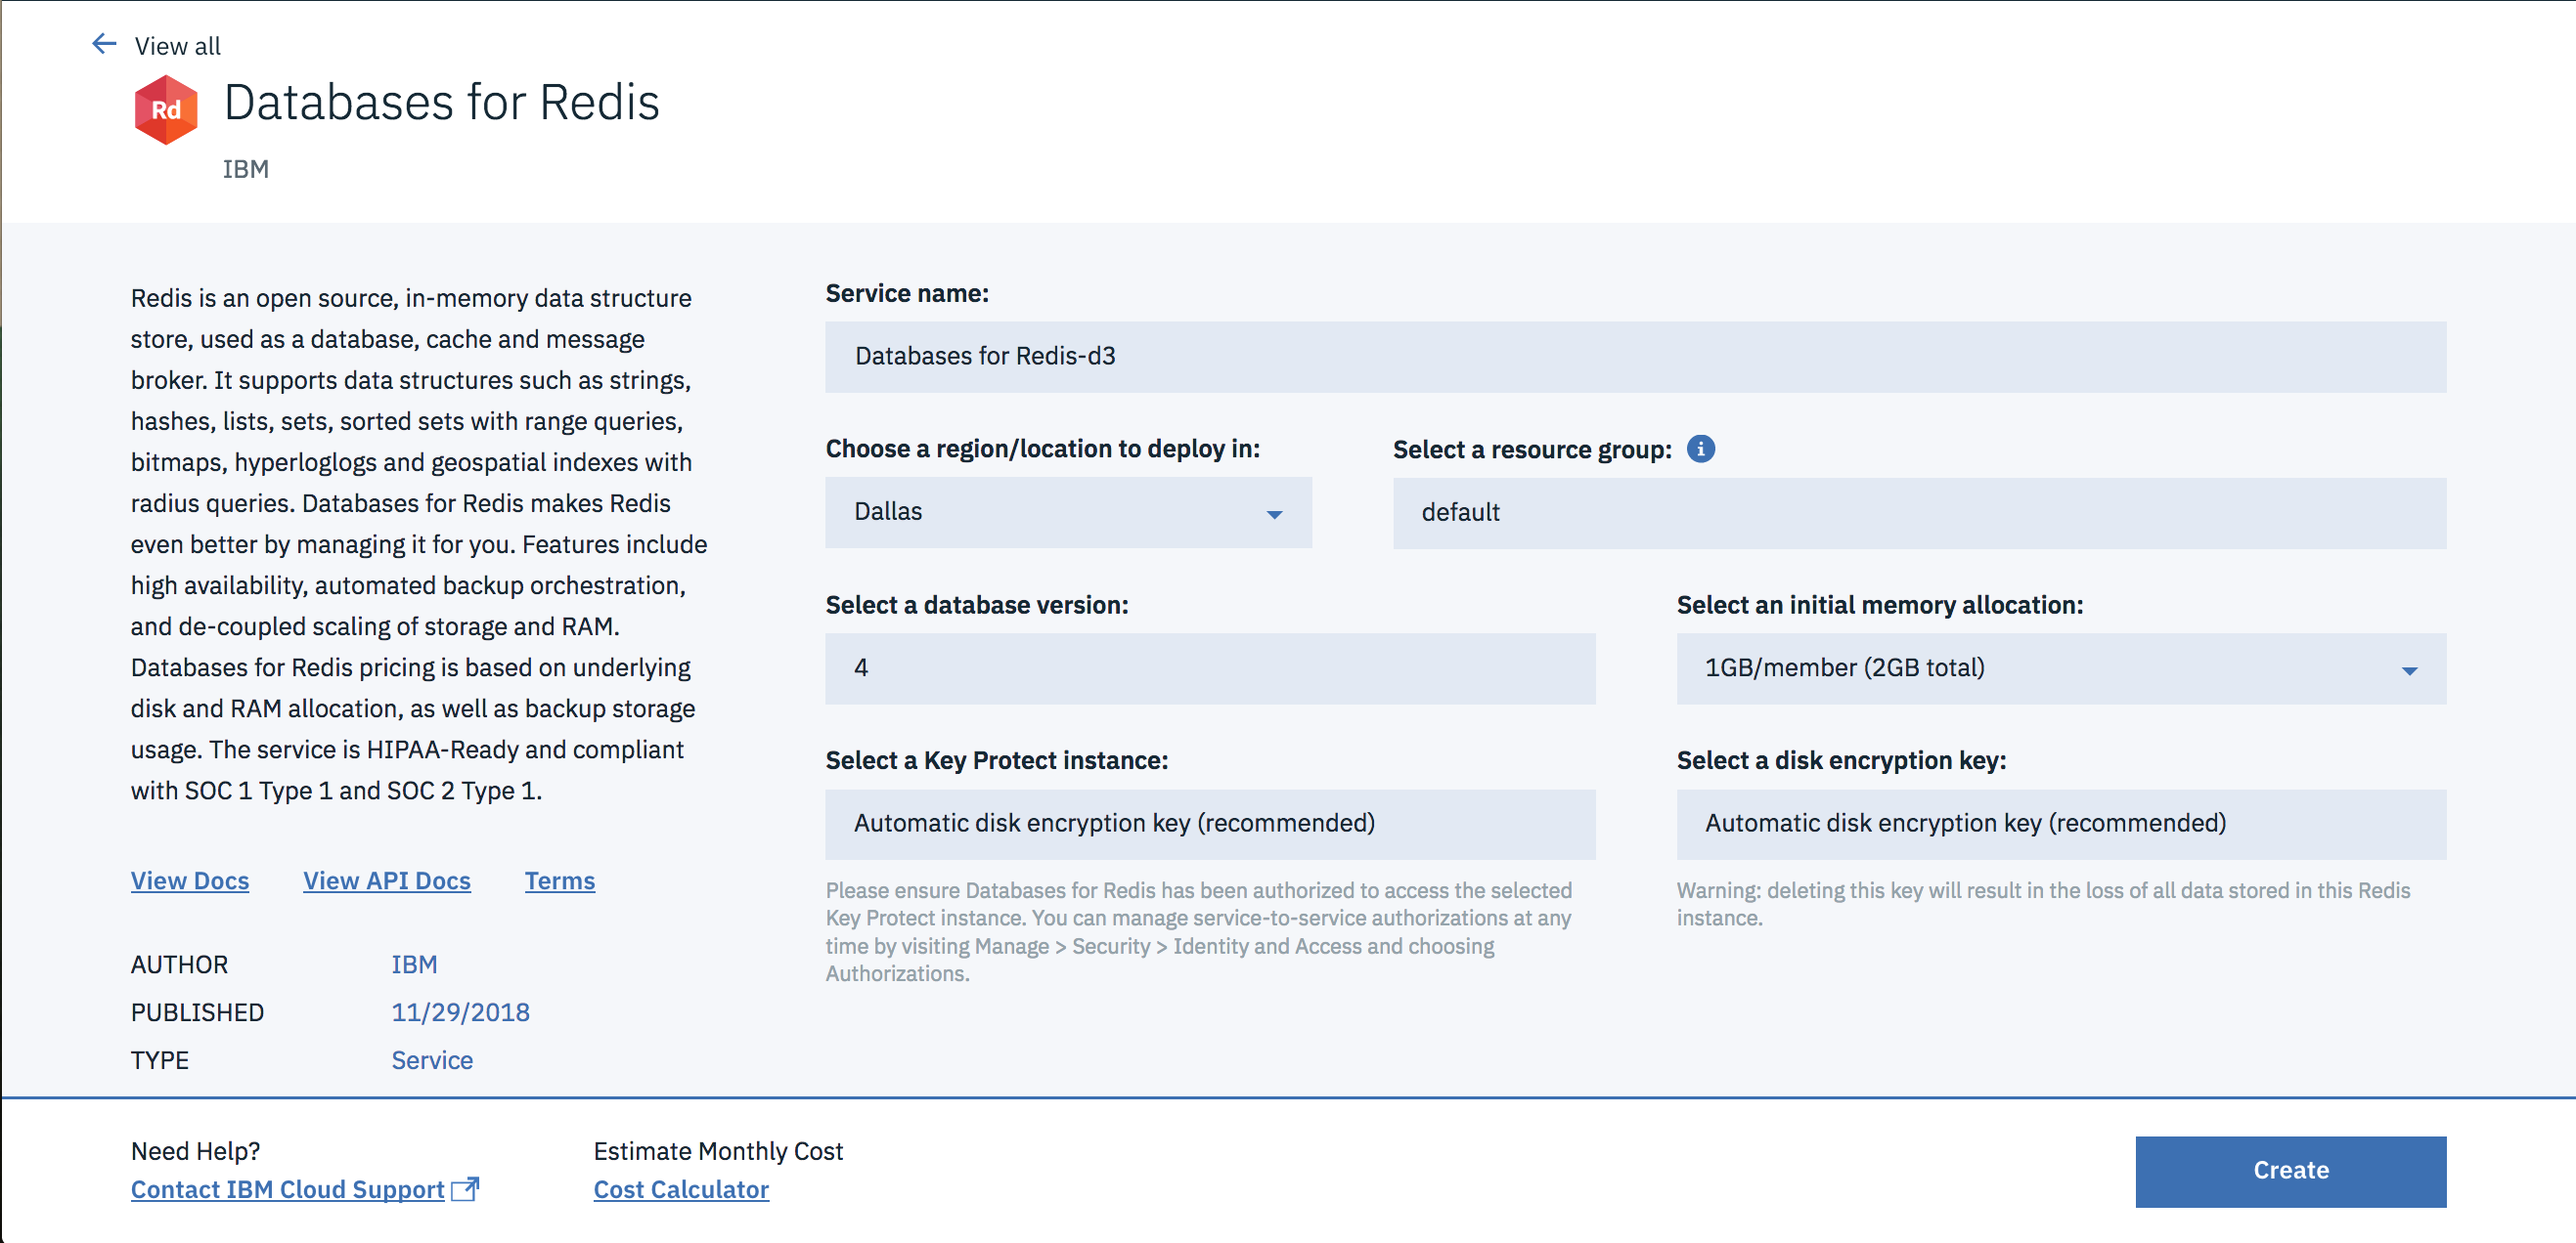
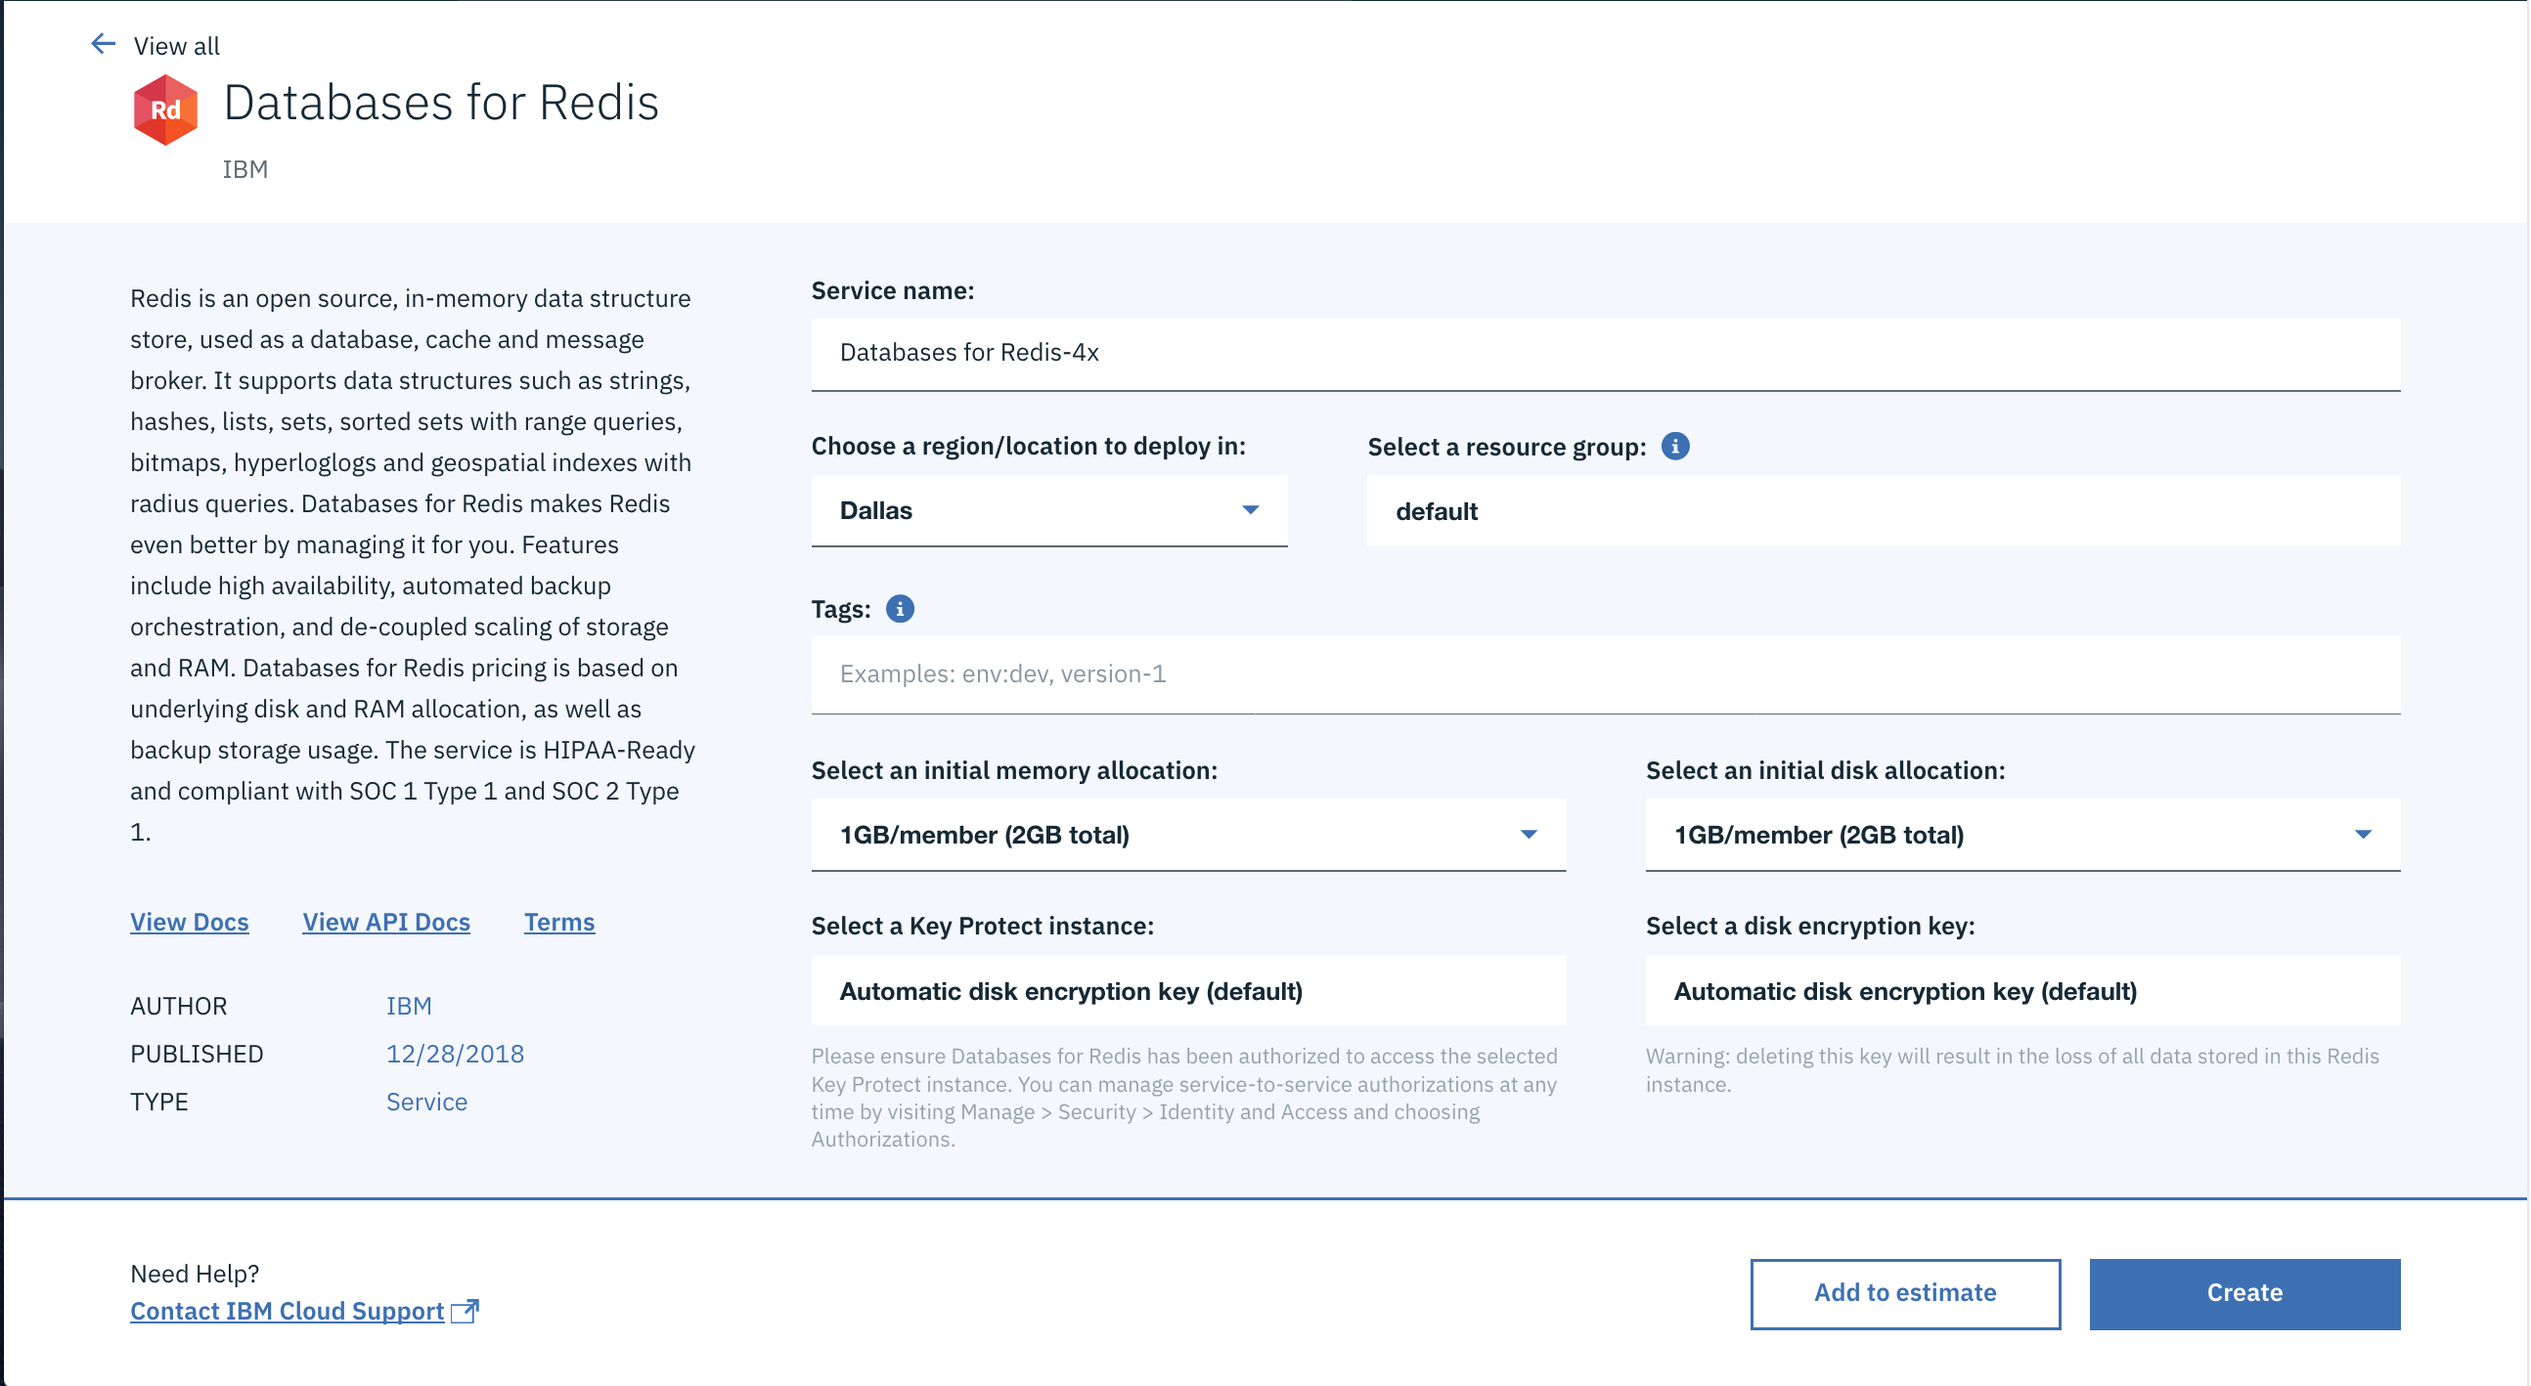
Feature provisioning terraform (#21)
* adding disk parameter

* updating provisioning screenshot

* adding api and terraform sections

diff --git a/howto-provisioning.md b/howto-provisioning.md
@@ -1,8 +1,8 @@
 ---
 
 copyright:
-  years: 2018
-lastupdated: "2018-12-05"
+  years: 2018, 2019
+lastupdated: "2019-01-03"
 ---
 
 {:shortdesc: .shortdesc}
@@ -33,14 +33,11 @@ Users can optionally set:
 
 1. **The resource group** - If you are organizing your services into [resource groups](/docs/resources/bestpractice_rgs.html#bp_resourcegroups), you can specify the resource group in this field. Otherwise, you can leave it at default.
 2. **Disk encryption** - Optionally, a Key Protect instance can be selected if the user has Key Protect configured. If it is configured, once the service is selected, a disk encryption key can be selected from the Key Protect service. By default, Key Protect is not used and the deployment automatically creates and manages its own disk encryption key. 
-
-Users cannot set:
-
-1. **The service plan** - A service can have a number of plan types with different pricing, resources or other features, each with their own service plan ID. {{site.data.keyword.databases-for-redis}} currently has one service plan, standard. 
+3. **Initial resource allocation** - Specify initial memory and disk sizes for your databases. The minimum sizes of memory and disk are selected by default.
 
 Once you select the appropriate settings, click **Create** to start the provisioning process off.
 
-The database takes some time to deploy. The user is navigated back to the {{site.data.keyword.cloud_notm}} Dashboard.
+The database takes some time to deploy, and you are navigated back to your {{site.data.keyword.cloud_notm}} Resource List.
 
 ## Using the Command Line
 
@@ -72,12 +69,7 @@ This command reports the current state of the service instance.
 
 ### Additional parameters
 
-The `service-instance-create` command supports a `-p` flag, which allows addition parameters to be passed to the provisioning process. The parameters are in JSON format. Some parameters values are CRNs (Cloud Resource Name), which uniquely identifies a resource in the cloud. All parameter names and values are passed as strings.
-
-* `backup_id`- A CRN of a backup resource to restore from. The backup must have been created by a database deployment with the same service ID. The backup is loaded after provisioning and the new deployment starts up that uses that data. A backup CRN is in the format `crn:v1:<...>:backup:<uuid>`. If omitted, the database is provisioned empty. This parameter cannot be set with a **version** parameter
-* `version` - The version of the database to be provisioned. If omitted, the database is created with the most recent major and minor version. This parameter cannot be set with a **backup_id** parameter.
-* `key_protect_key` - A CRN that references a Key Protect key, which is then used for disk encryption.
-* `members_memory_allocation_mb` -  Total amount of memory to be shared between the database members within the database. For example, if the value is "4096" then the two database members get 4 GB of RAM between them, giving 2 GB of RAM per member. If omitted, the default value is used; "2048".
+The `service-instance-create` command supports a `-p` flag, which allows [additional parameters](#list-of-additional-parameters) to be passed to the provisioning process. The parameters are in JSON format. Some parameters values are CRNs (Cloud Resource Name), which uniquely identifies a resource in the cloud. All parameter names and values are passed as strings.
 
 For example, if a database is being provisioned from a particular backup and the new database deployment needs two members, each with 2 GB, then the command looks like:
 
@@ -89,3 +81,62 @@ ibmcloud resource service-instance-create example-redis databases-for-redis stan
 }'
 ```
 
+## Provisioning through the Resource Controller API
+
+You can provision new deployments by using the Resource Controller API. However, in order to use the Resource Controller API, you need some additional preparation.
+
+1. [Obtain an IAM token from your API token](https://{DomainName}/apidocs/resource-controller#authentication).
+2. You need to know the ID of the resource group that you would like to deploy to. This information is available through the [{{site.data.keyword.cloud_notm}} CLI](https://{DomainName}/docs/cli/reference/ibmcloud/cli_resource_group.html#ibmcloud_resource_groups). You can find a list of resource groups with `ibmcloud resource groups` and the ID of a resource group with `ibmcloud resource group`. 
+3. You need to know the region that you would like to deploy to.
+
+Once you have all the information, the create request is a `POST` to the `https://resource-controller.bluemix.net/v2/resource_instances` endpoint.
+
+```
+curl -X POST \
+  https://resource-controller.bluemix.net/v2/resource_instances \
+  -H 'Authorization: Bearer <>' \
+  -H 'Content-Type: application/json' \
+    -d '{
+    "name": "my-instance",
+    "target": "bluemix-us-south",
+    "resource_group": "5g9f447903254bb58972a2f3f5a4c711",
+    "resource_plan_id": "databases-for-redis-standard"
+  }'
+```
+The parameters `name`, `target`, `resource_group`, and `resource_plan_id` are all required. If needed, you can send [additional parameters](#list-of-additional-parameters) in the request body.
+
+More information on the Resource Controller API is found in its [API Reference](https://{DomainName}/apidocs/resource-controller#create-provision-a-new-resource-instance).
+
+## Provisioning with Terraform
+
+If you use [Terraform](https://www.terraform.io/) to manage your infrastructure, the [{{site.data.keyword.cloud_notm}} provider for Terraform](https://ibm-cloud.github.io/tf-ibm-docs/) supports provisioning {{site.data.keyword.databases-for-redis}}. 
+
+Example configuration:
+
+```
+data "ibm_resource_group" "group" {
+  name = "default"
+}
+resource "ibm_resource_instance" "resource_instance" {
+  name              = "example-terraform-redis"
+  location          = "us-south"
+  service           = "databases-for-redis"
+  plan              = "standard"
+  resource_group_id = "${data.ibm_resource_group.group.id}"
+  parameters = {}
+}
+```
+
+The `name`, `location`, `service`, and `plan` fields are all required. The `resource_group_id` is not required, and it uses the default resource group if not supplied.
+
+You can send any needed [additional parameters](#list-of-additional-parameters) in the `parameters` field as a JSON object.
+
+More information about this specific {{site.data.keyword.cloud_notm}} provider configuration is available under the [Cloud Foundry Resources, `resource_instance`](https://ibm-cloud.github.io/tf-ibm-docs/v0.14.0/r/resource_instance.html) documentation.
+
+## List of Additional Parameters
+
+* `backup_id`- A CRN of a backup resource to restore from. The backup must have been created by a database deployment with the same service ID. The backup is loaded after provisioning and the new deployment starts up that uses that data. A backup CRN is in the format `crn:v1:<...>:backup:<uuid>`. If omitted, the database is provisioned empty. This parameter cannot be set with a **version** parameter
+* `version` - The version of the database to be provisioned. If omitted, the database is created with the most recent major and minor version. This parameter cannot be set with a **backup_id** parameter.
+* `key_protect_key` - A CRN that references a Key Protect key, which is then used for disk encryption.
+* `members_memory_allocation_mb` -  Total amount of memory to be shared between the database members within the database. For example, if the value is "4096" then the two database members get 4 GB of RAM between them, giving 2 GB of RAM per member. If omitted, the default value is used; "2048".
+* `members_disk_allocation_mb` - Total amount of disk to be shared between the database members within the database. For example, if the value is "4096" then the two database members get 4 GB of disk between them, giving 2 GB of disk per member. If omitted, the default value is used; "2048".
